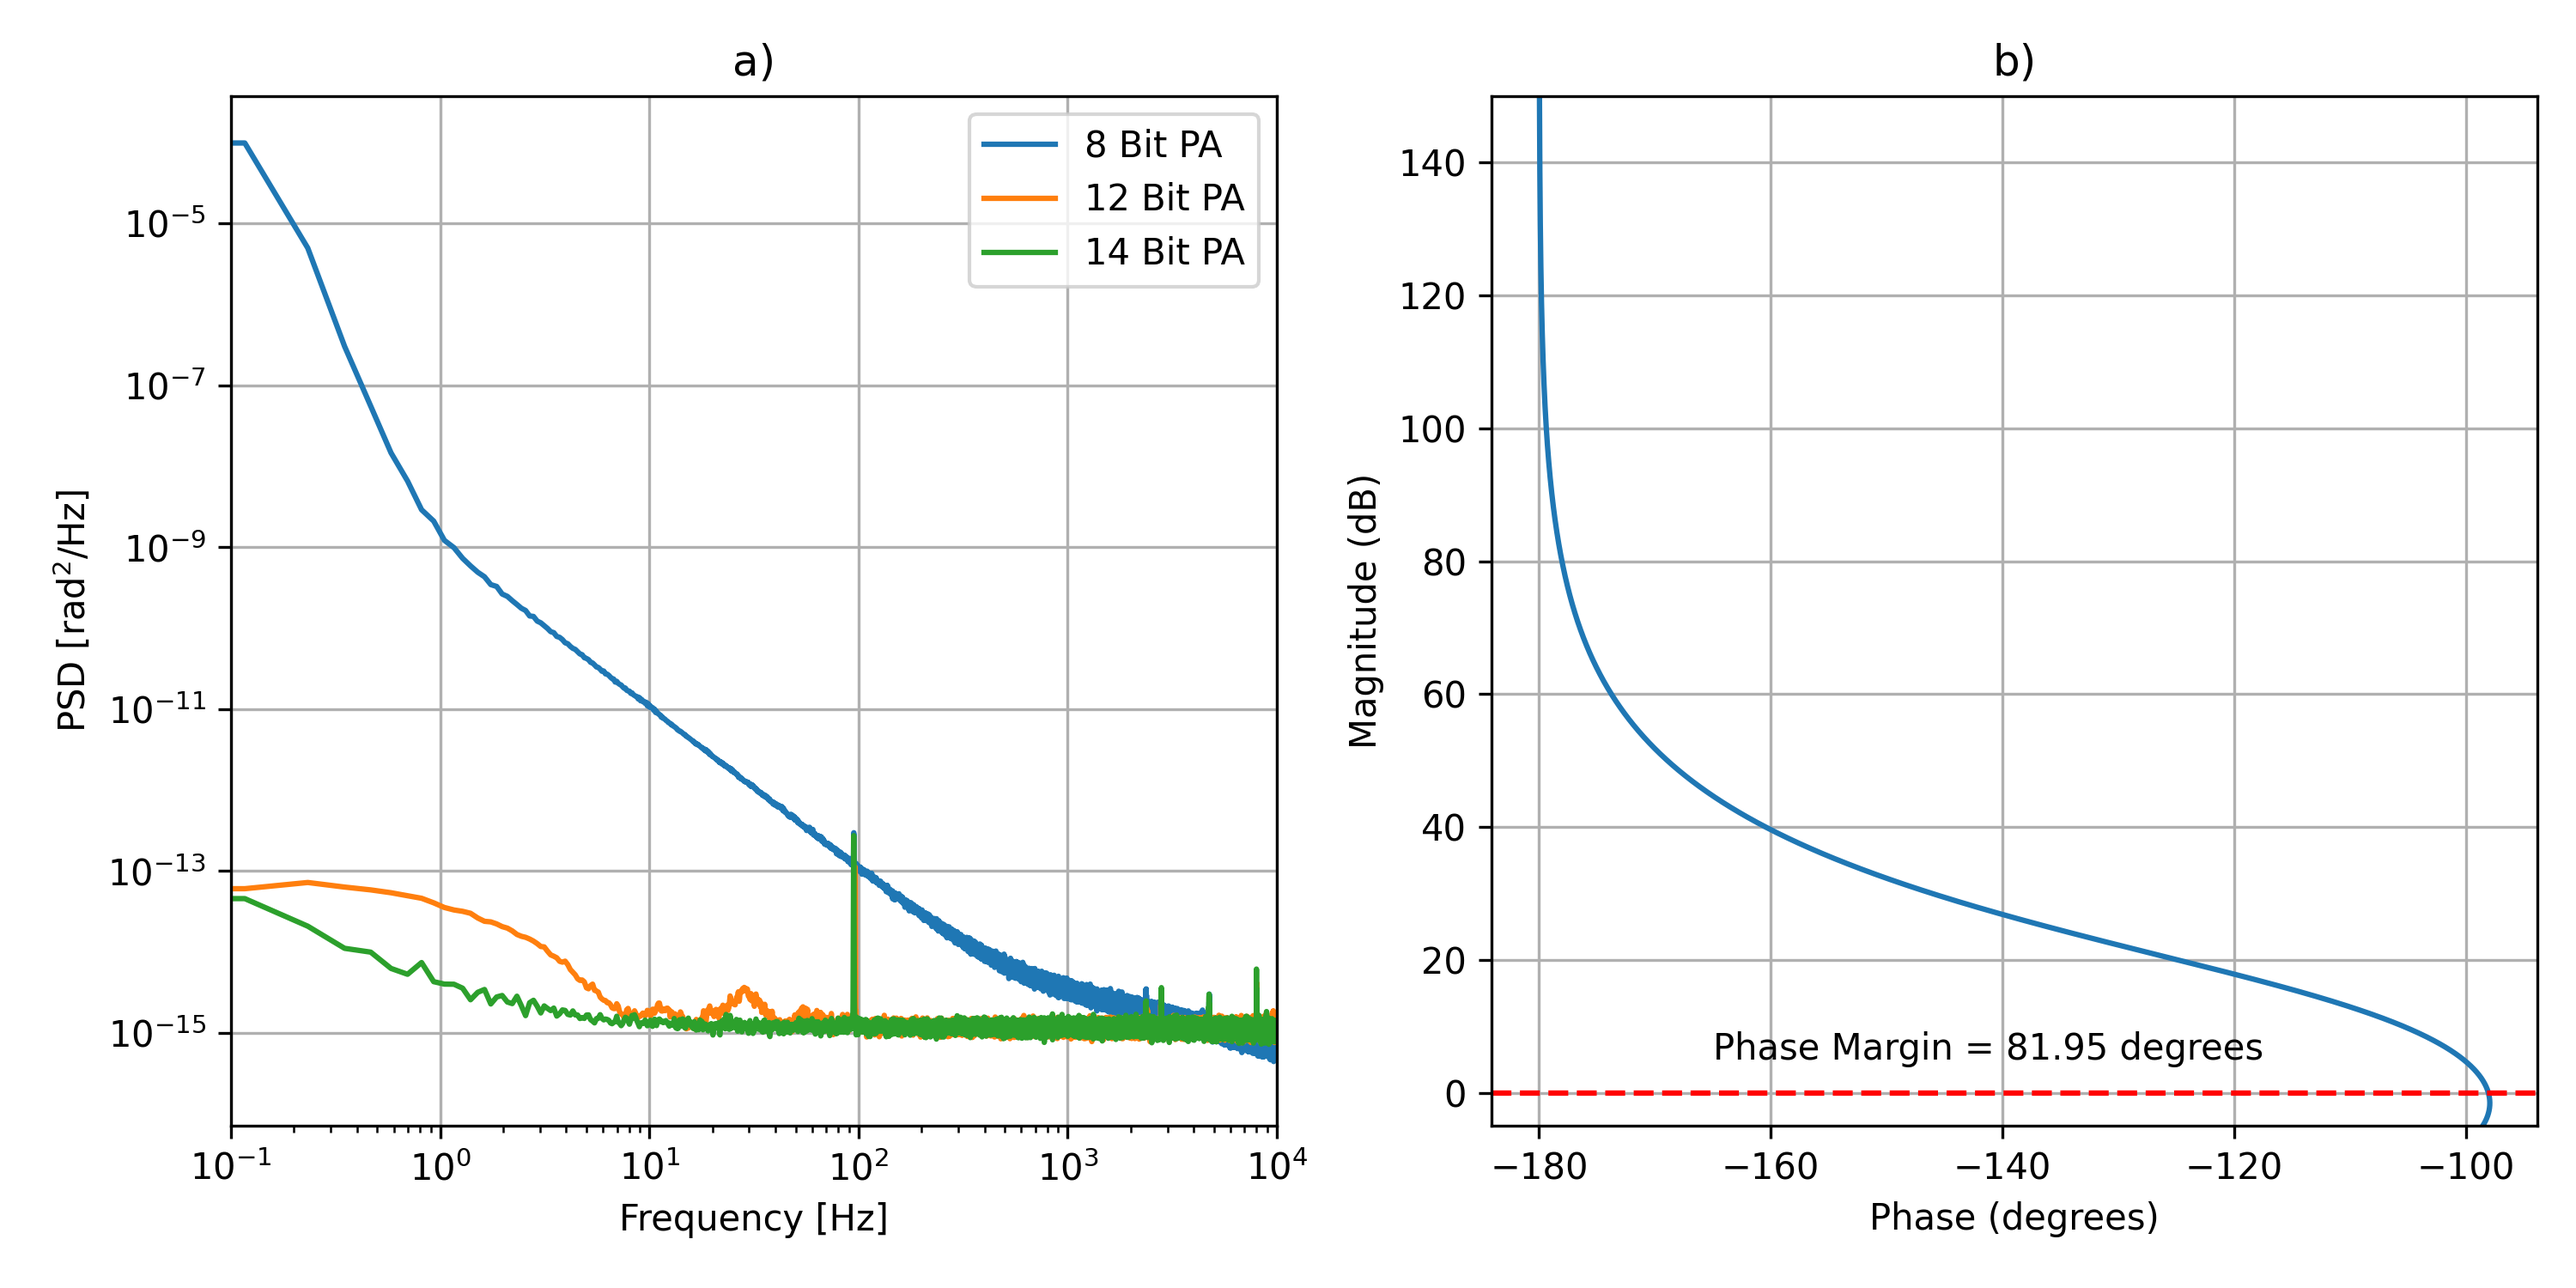
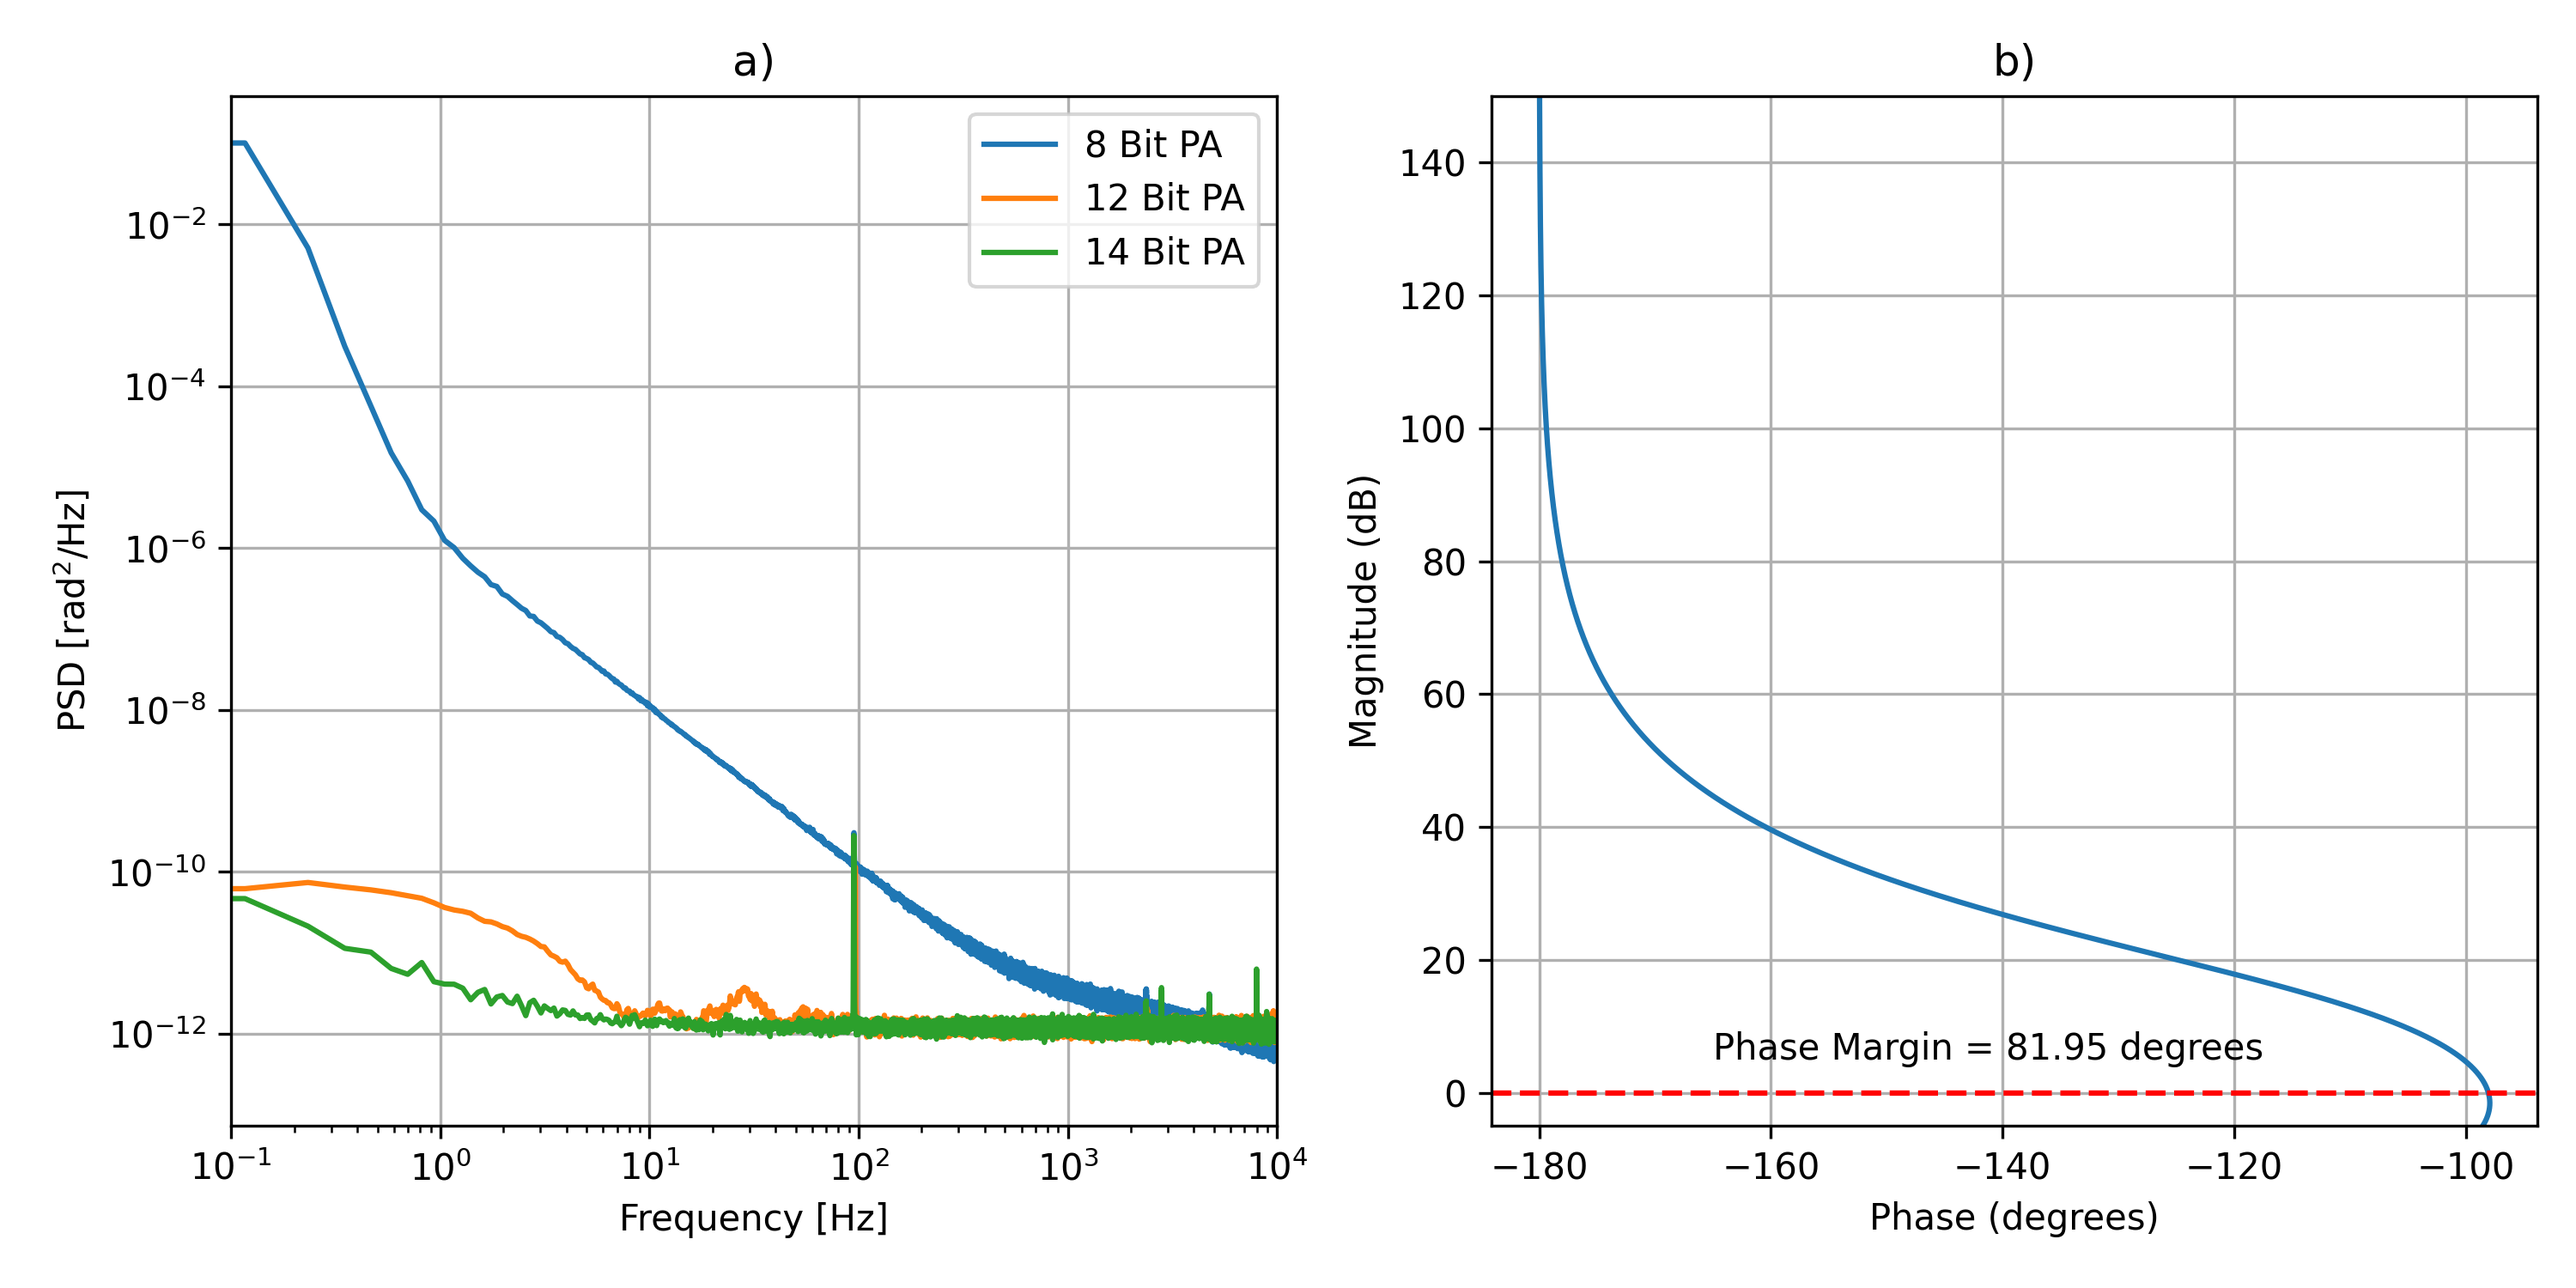
Some stuff

diff --git a/helper/Plotting/PM_GOL.py b/helper/Plotting/PM_GOL.py
@@ -27,8 +27,8 @@ T = 12 # CIC Truncation and scaling to 14 bits, 14 bits -> 24 bits (14+2*log2(32
 
 Ps = 1
 KG = 1
-KI = 50/2**16
-KP = 200000/2**16
+KI = 0.001/2**16
+KP = 20000/2**16
 
 
 ###ACCUMULATOR IN LOOP###
@@ -64,22 +64,19 @@ zero_crossing_index = np.argmax(np.diff(np.sign(20 * np.log10(abs(L[0:n])))))
 
 # Plot the phase and magnitude response
 plt.figure(figsize=(10, 6))  # Adjust the figure size as needed
-plt.plot(np.angle(L[0:n]) * 180 / np.pi, 20 * np.log10(abs(L[0:n])))
+plt.plot(20 * np.log10(abs(L[0:n])))
+plt.plot(np.angle(L[0:n]) * 180 / np.pi)
 
 # Labeling the axes
-plt.xlabel('Phase (degrees)')
-plt.ylabel('Magnitude (dB)')
-plt.ylim(-5, 150)
+plt.xlabel('frequency Hz')
+plt.ylabel('Magnitude (dB)/phase deg')
 # Add a vertical line at 0 dB
 plt.axhline(y=0, color='r', linestyle='--')
 
 # Annotate the phase margin
 pm = 180 + np.angle(L[UGF_index]) * 180 / np.pi
-plt.annotate(f'Phase Margin: {pm:.2f} degrees', xy=(pm, 0), xytext=(pm, 10),
-             arrowprops=dict(arrowstyle='->'))
 
 # Add text for phase margin near the zero crossing
-plt.text(np.angle(L[zero_crossing_index]) * 180 / np.pi + 15, 5, f'Phase Margin = {pm:.2f} degrees', color='black')
 
 plt.grid(True)
 plt.title('Costas Loop Nichols Plot')

diff --git a/helper/Plotting/Plot_FuncPhaseNoise+Nichols.py b/helper/Plotting/Plot_FuncPhaseNoise+Nichols.py
@@ -28,7 +28,7 @@ def readBinarytoPSD(filename, bytes=1e100, Downsample=32):
 
     data=unsigned_to_signed_array(np.array(data[int(len(data)*0.1):int(len(data)*0.9)]))
     data = data[data != 0]
-    data = 2*np.pi*data/(2**32)
+    data = 2*np.pi*Downsample*data/(2**32)
     np.save("logger_dump.npy", data)
     return sp.welch(data, fs = 30.5e3, nperseg=2**18)
 

diff --git a/helper/Plotting/Plot_FreqNoise.py b/helper/Plotting/Plot_FreqNoise.py
@@ -3,7 +3,7 @@ import matplotlib.pyplot as plt
 import scipy.signal as sp
 from scipy.optimize import curve_fit
 
-data =np.load("logger_dump.npy")
+data =np.load("../../Data/20231013_LinkFreqNoise60s(-20k).npy")
 
 freq = np.mean(data)
 data = (data - freq)
